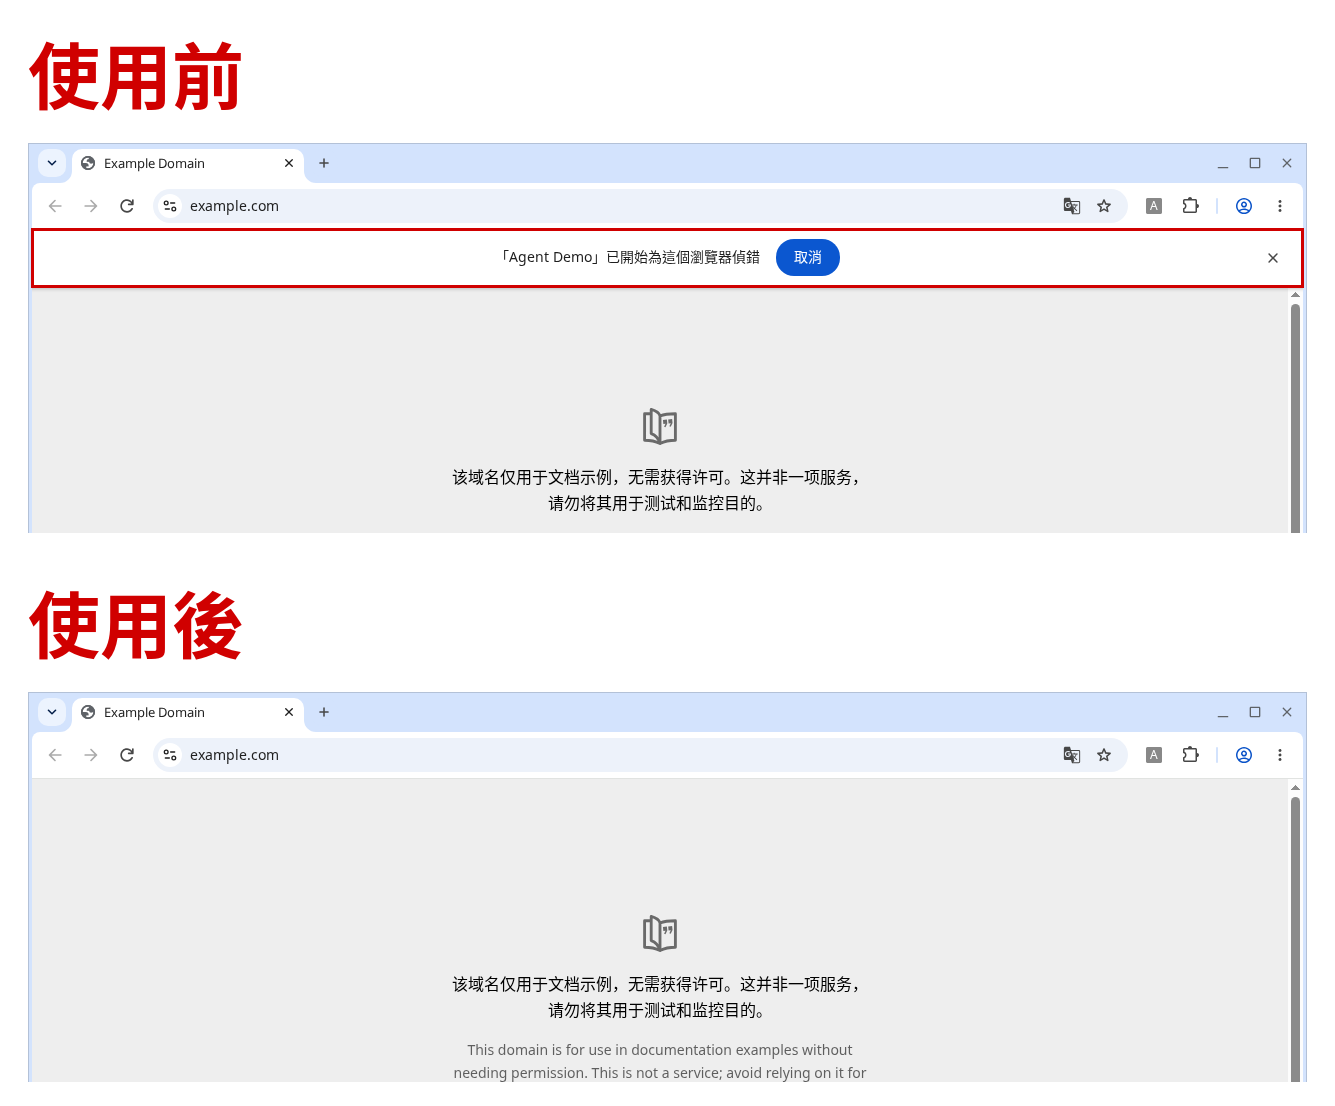
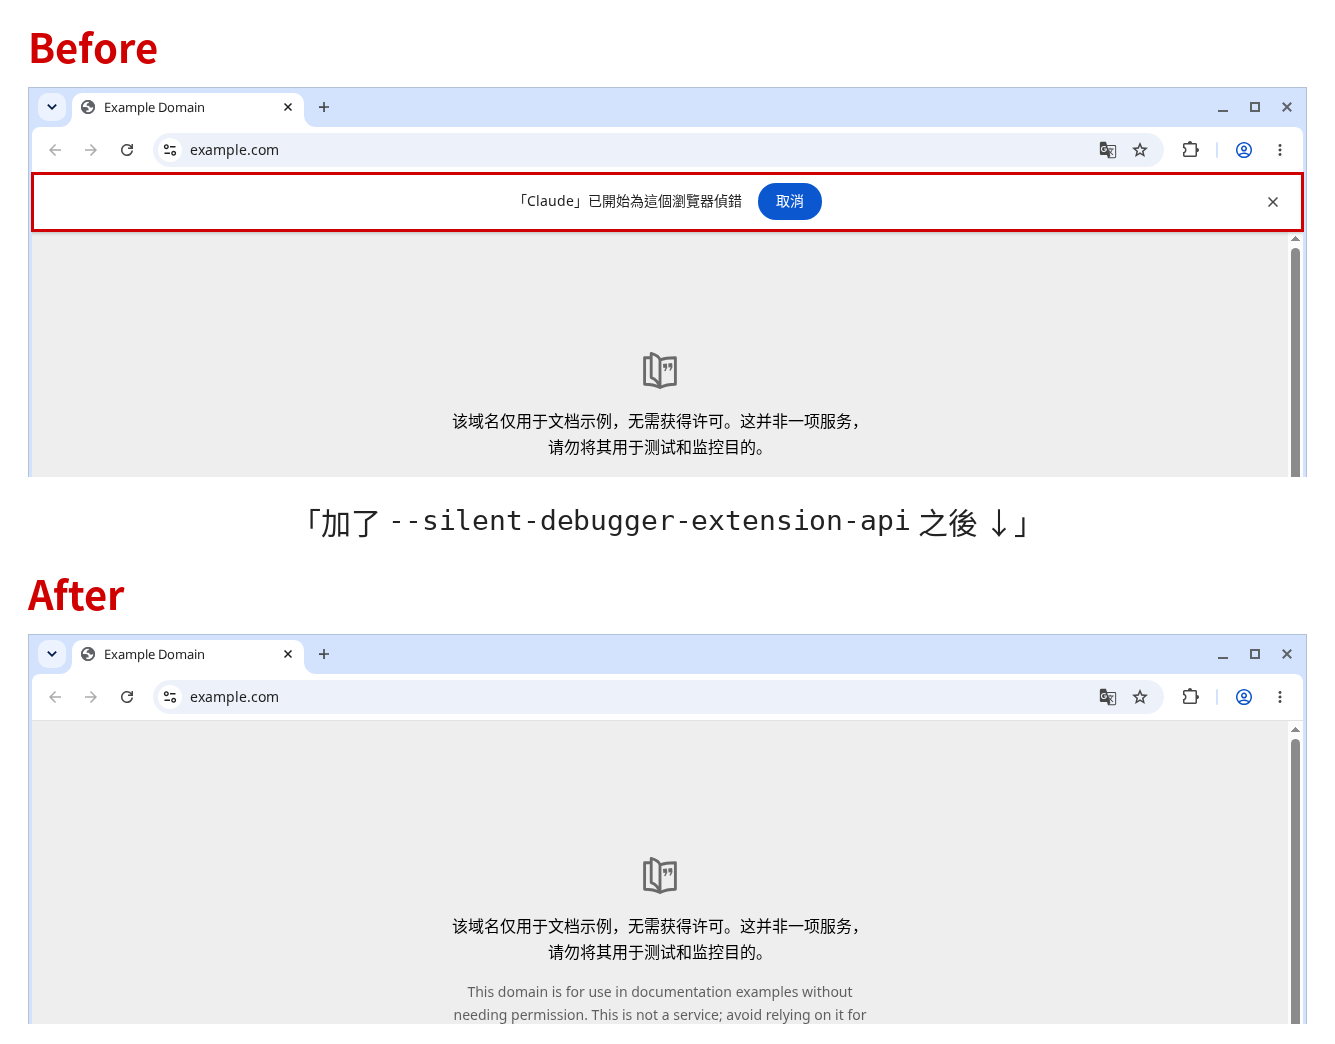
Reshoot the before/after image with a Claude-named demo extension
The official Anthropic extension's display name is Claude, so the
demo extension uses that name to reproduce the real infobar. Relabel
the composite Before/After, add a short line about the launch flag,
and update captions to say this is a demo, not the official extension.

diff --git a/docs/DETAILS.en.md b/docs/DETAILS.en.md
@@ -52,7 +52,9 @@ The infobar is how Chrome tells you that an extension is controlling the browser
 
 ## About these screenshots
 
-The [before/after comparison](before-after.png) and the `chrome://version` image below were taken with official Google Chrome 156.0.8078.47 (stable, Linux x86_64, Traditional Chinese UI), on a throwaway profile, using a demo extension named "Agent Demo". No account was signed in. The zh-TW banner text is 「『Agent Demo』已開始為這個瀏覽器偵錯」, with 取消 on the right. The English UI is roughly `"Agent Demo" started debugging this browser`, with Cancel. The extension name depends on the tool you actually use.
+The [before/after comparison](before-after.png) and the `chrome://version` image below were taken with official Google Chrome 156.0.8078.47 (stable, Linux x86_64, Traditional Chinese UI), on a throwaway profile, using a demo extension named "Claude" to reproduce the real infobar. It is not the official Anthropic extension, and no account was signed in. The zh-TW banner text is 「『Claude』已開始為這個瀏覽器偵錯」, with 取消 on the right. That matches the display name of the official [Claude](https://chromewebstore.google.com/detail/claude/fcoeoabgfenejglbffodgkkbkcdhcgfn) extension (the Chrome Web Store title and the name shown in the bar are both "Claude"). The English UI is roughly `"Claude" started debugging this browser`, with Cancel.
+
+On the OpenAI side, the official store listing and current manifest display name are [ChatGPT](https://chromewebstore.google.com/detail/chatgpt/hehggadaopoacecdllhhajmbjkdcmajg) (`"name": "ChatGPT"`), so the bar would say "ChatGPT", not "Codex" or "OpenAI". Some earlier reports of the Codex desktop plugin mentioned a `"Codex"` banner, but that is not the current Web Store name. Chrome shows only one debugger infobar in a window at a time, so the comparison shot uses Claude only. The name you see depends on the extension you actually have installed.
 
 The Command Line on `chrome://version` should contain `--silent-debugger-extension-api`:
 

diff --git a/README.md b/README.md
@@ -4,7 +4,9 @@
 
 把 Chrome 那條「已開始為這個瀏覽器偵錯」提示藏起來。作法是讓 Chrome 啟動時帶上 `--silent-debugger-extension-api`。不會修改 Chrome 程式檔，也不會開啟遠端偵錯連接埠。
 
-![使用前出現提示條，使用後提示條消失](docs/before-after.png)
+![Before：提示條寫著「Claude」已開始為這個瀏覽器偵錯。After：加上 --silent-debugger-extension-api 後提示條消失。](docs/before-after.png)
+
+實際截圖。用名稱設成「Claude」的示範擴充功能，重現官方 [Claude](https://chromewebstore.google.com/detail/claude/fcoeoabgfenejglbffodgkkbkcdhcgfn) 擴充功能會出現的那條提示，並不是 Anthropic 的原版擴充功能。
 
 加上這個參數後，**所有**使用偵錯 API 的擴充功能都不會再顯示這條提示。請先確認你安裝的擴充功能都信得過；共用或公司管理的電腦不要用。
 

diff --git a/README.en.md b/README.en.md
@@ -4,7 +4,9 @@
 
 Hides Chrome's "started debugging this browser" infobar by launching Chrome with `--silent-debugger-extension-api`. It does not patch the Chrome binary or open a remote debugging port.
 
-![Before: the infobar is visible. After: it is gone.](docs/before-after.png)
+![Before: the infobar says '"Claude" started debugging this browser'. After: the bar is gone once --silent-debugger-extension-api is added.](docs/before-after.png)
+
+These are real Chrome screenshots. The bar was reproduced with a demo extension named "Claude", not the official Anthropic extension.
 
 The flag hides the bar for **every** extension that uses the debugger API, not only one agent. Use it only if you trust your installed extensions. Do not use it on a shared or managed machine.
 
